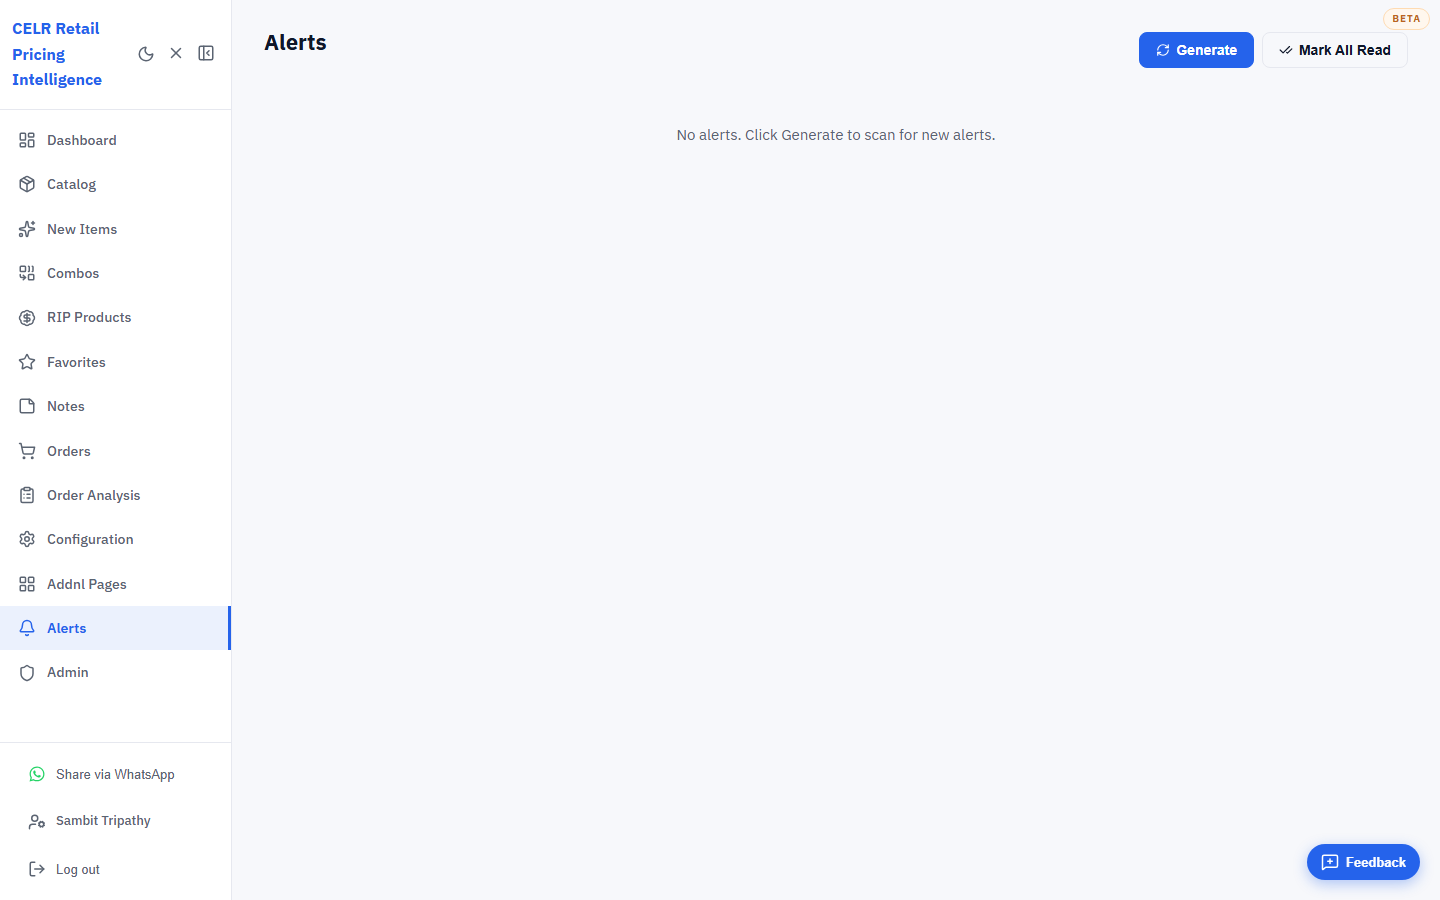
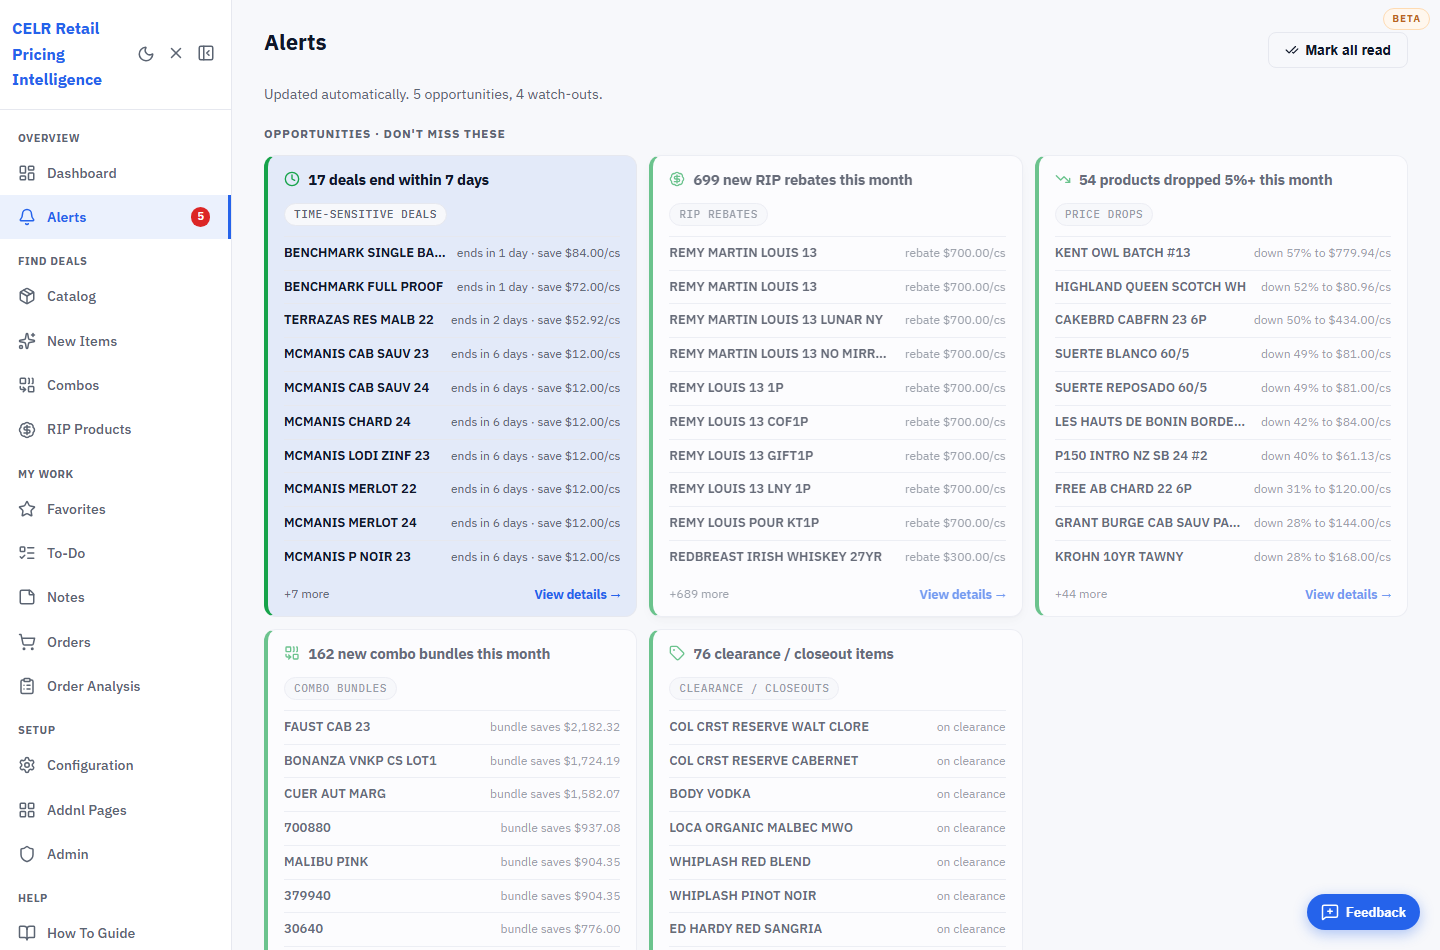
How To Guide: add To-Do section, rewrite Alerts for the new digest, grouped-menu nav, right-click To-Do; refreshed screenshots

diff --git a/frontend/src/pages/HowToGuide.tsx b/frontend/src/pages/HowToGuide.tsx
@@ -3,7 +3,7 @@ import {
   BookOpen, Rocket, Store, LayoutDashboard, Package, Sparkles, Combine,
   BadgeDollarSign, Star, StickyNote, ShoppingCart, ClipboardList, Bell,
   Settings, UserCog, MousePointerClick, Globe, MessageCircle, BookMarked,
-  Shield, Lightbulb,
+  Shield, Lightbulb, ListTodo,
 } from 'lucide-react';
 import './HowToGuide.css';
 
@@ -21,6 +21,7 @@ const TOC: { id: string; label: string; sub?: boolean }[] = [
   { id: 'combos', label: 'Combos' },
   { id: 'ripproducts', label: 'RIP Products' },
   { id: 'favorites', label: 'Favorites (watchlist)' },
+  { id: 'todo', label: 'To-Do board' },
   { id: 'notes', label: 'Notes' },
   { id: 'orders', label: 'Orders' },
   { id: 'orderanalysis', label: 'Order Analysis' },
@@ -163,19 +164,30 @@ export default function HowToGuide() {
           </Section>
 
           <Section id="navigate" icon={<LayoutDashboard size={20} />} title="Finding your way around">
-            <p>The left menu is how you move between screens. From top to bottom:</p>
+            <p>The left menu is grouped into labelled sections of related screens:</p>
+            <h3>Overview</h3>
             <ul>
               <li><strong>Dashboard</strong> — your daily overview.</li>
+              <li><strong>Alerts</strong> — price and deal notifications (a red badge shows unread).</li>
+            </ul>
+            <h3>Find deals</h3>
+            <ul>
               <li><strong>Catalog</strong> — every product, searchable and filterable.</li>
               <li><strong>New Items</strong> — products that just appeared this month.</li>
               <li><strong>Combos</strong> — bundle deals.</li>
               <li><strong>RIP Products</strong> — products with rebate offers.</li>
+            </ul>
+            <h3>My work</h3>
+            <ul>
               <li><strong>Favorites</strong> — products you have starred (your watchlist).</li>
+              <li><strong>To-Do</strong> — your task board (right-click any product to add one).</li>
               <li><strong>Notes</strong> — every note you have written, in one place.</li>
-              <li><strong>Orders</strong> — your draft and submitted orders (a number badge shows drafts in progress).</li>
+              <li><strong>Orders</strong> — your draft and submitted orders (a badge shows drafts in progress).</li>
               <li><strong>Order Analysis</strong> — a scratchpad of products you are still thinking about.</li>
+            </ul>
+            <h3>Setup &amp; Help</h3>
+            <ul>
               <li><strong>Configuration</strong> — your stores, sales reps, and divisions.</li>
-              <li><strong>Alerts</strong> — price and deal notifications (a red badge shows unread alerts).</li>
               <li><strong>How To Guide</strong> — this page.</li>
             </ul>
             <p>At the top and bottom of the menu:</p>
@@ -309,6 +321,22 @@ export default function HowToGuide() {
             </ul>
           </Section>
 
+          <Section id="todo" icon={<ListTodo size={20} />} title="To-Do board">
+            <Path>To-Do in the left menu</Path>
+            <Shot src="/guide/14-todo.png" alt="The To-Do board: four weekly buckets of sticky-note cards you can drag between weeks." />
+            <p>A simple task board so a follow-up never slips. Add a to-do two ways:</p>
+            <ul>
+              <li><strong>Right-click any product</strong> anywhere and choose <strong>Add to To-Do</strong>. Enter what to do, a note, and a due date. The product and the page you were on are saved with it, so you have the context to decide later.</li>
+              <li><strong>New To-Do</strong> button at the top of the board (or the <strong>+</strong> on a week column) for a task not tied to a product.</li>
+            </ul>
+            <p>
+              The board has <strong>four weekly buckets</strong>: This week, Next week, In 2 weeks, and 3+ weeks /
+              Later. Cards look like sticky notes. <strong>Drag a card to another week to reschedule it</strong>.
+              On each card you can <strong>edit</strong> (pencil), <strong>mark done</strong>, or <strong>delete</strong>,
+              and click the product to open its details. Completed items collect in a Done list at the bottom.
+            </p>
+          </Section>
+
           <Section id="notes" icon={<StickyNote size={20} />} title="Notes">
             <Path>Notes in the left menu</Path>
             <Shot src="/guide/07-notes.png" alt="Notes: one feed of every note you have written, filterable by where it came from." />
@@ -354,14 +382,30 @@ export default function HowToGuide() {
 
           <Section id="alerts" icon={<Bell size={20} />} title="Alerts">
             <Path>Alerts in the left menu (red badge shows unread)</Path>
-            <Shot src="/guide/09-alerts.png" alt="Alerts: price and deal notifications with Generate and Mark All Read." />
-            <p>Notifications about things worth acting on. Click <strong>Generate</strong> to scan for new ones, and <strong>Mark All Read</strong> to clear the badge. Alert types include:</p>
+            <Shot src="/guide/09-alerts.png" alt="Alerts: a grouped digest split into Opportunities and Watch-outs, one tile per category." />
+            <p>
+              Alerts is an <strong>automatic digest</strong>. It builds itself (no buttons to press) and refreshes
+              overnight and whenever you open it. Everything is organised into one tile per category, split into
+              two groups so you can see at a glance what to chase and what to avoid:
+            </p>
+            <h3>Opportunities (don&apos;t miss)</h3>
             <ul>
+              <li><strong>Time-sensitive deals</strong> — ending within about a week.</li>
+              <li><strong>New RIP rebates</strong> and <strong>new combo bundles</strong> this month.</li>
+              <li><strong>Clearance / closeouts</strong> and <strong>price drops</strong>.</li>
               <li><strong>Target price hit</strong> — a favorite reached the price you set.</li>
-              <li><strong>Price drop</strong> / <strong>Price increase</strong> — a meaningful change.</li>
-              <li><strong>New clearance</strong> — a product went on closeout.</li>
-              <li><strong>New discount</strong> — a new offer appeared.</li>
             </ul>
+            <h3>Watch-outs (avoid a mistake)</h3>
+            <ul>
+              <li><strong>Order check</strong> — a line in your draft orders is a couple of cases short of a bigger rebate, or is cheaper at another distributor.</li>
+              <li><strong>Buy now</strong> (gets pricier next month) and <strong>cheaper next month</strong> (consider waiting).</li>
+              <li><strong>Lost discounts</strong> and <strong>price increases</strong>.</li>
+            </ul>
+            <p>
+              Each tile shows a count and the top items. <strong>Click a tile to jump to the screen with the
+              details</strong> (for example the RIP tile opens RIP Products). Use <strong>Mark all read</strong> to
+              clear the badge.
+            </p>
           </Section>
 
           <Section id="rightclick" icon={<MousePointerClick size={18} />} title="The right-click menu">
@@ -372,6 +416,7 @@ export default function HowToGuide() {
               <li><strong>Add to Order Analysis</strong> — set it aside on the scratchpad.</li>
               <li><strong>Add to Favorites</strong> — star it.</li>
               <li><strong>Add to Order</strong> — add it straight to a draft order, or start a new one.</li>
+              <li><strong>Add to To-Do</strong> — capture a task about this product (what to do, a note, a due date) on your To-Do board.</li>
               <li><strong>Copy Code</strong> — copy the barcode to your clipboard.</li>
             </ul>
           </Section>